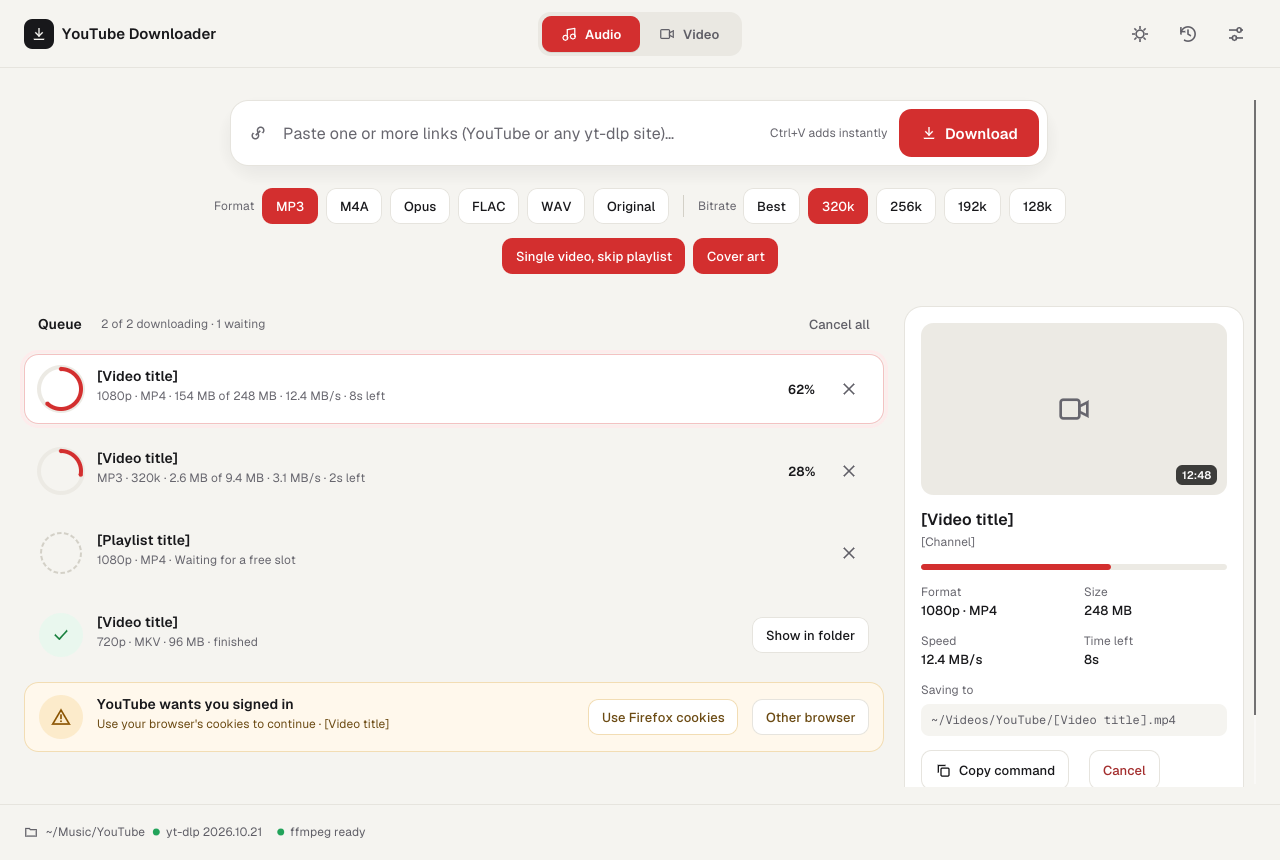
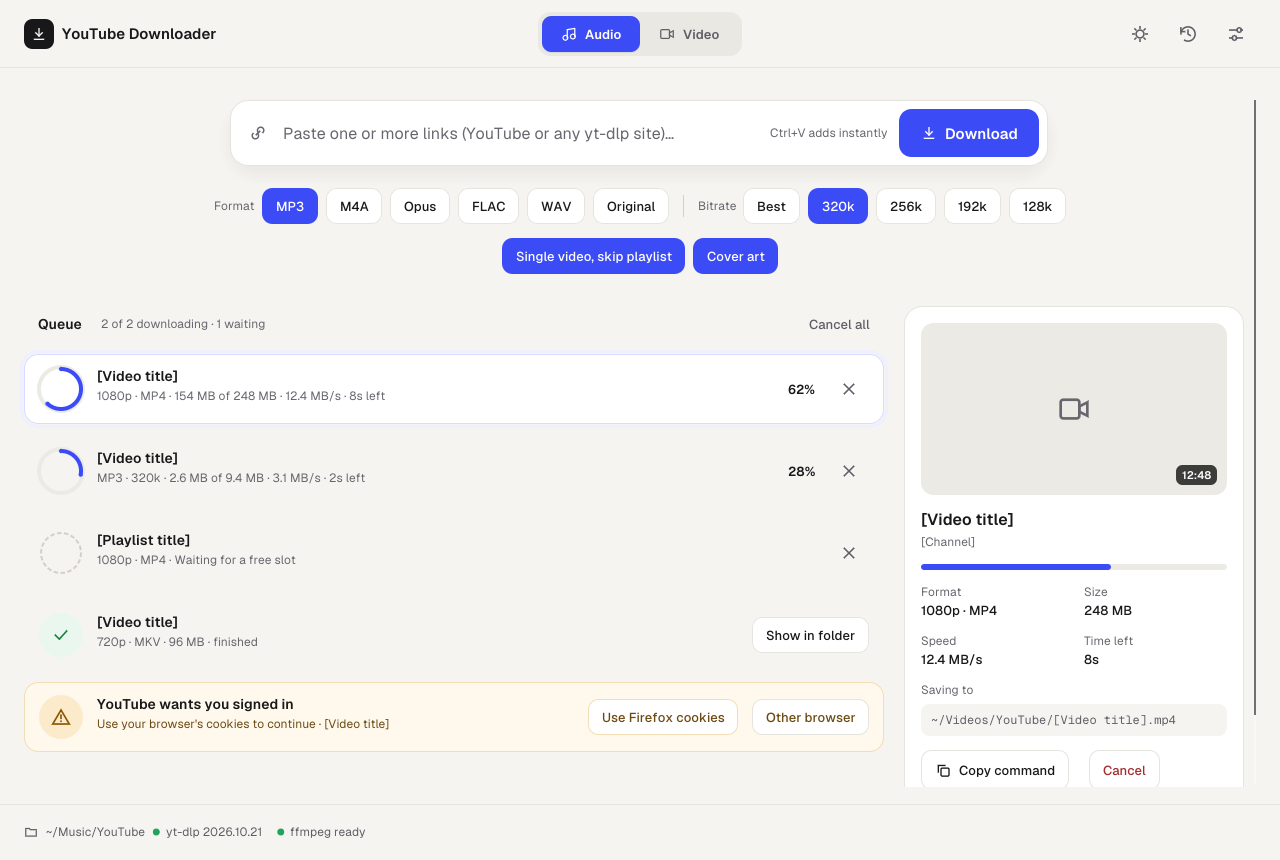
Keep the blue accent on the dark gray theme

diff --git a/crates/app/src/theme.rs b/crates/app/src/theme.rs
@@ -50,12 +50,12 @@ pub const DARK: Palette = Palette {
     text: hex(0xEDEDEF),
     muted: hex(0xA1A1AA),
     faint: hex(0x9C9CA6),
-    accent: hex(0xD32F2F),
-    accent_hover: hex(0xB71C1C),
+    accent: hex(0x3B4BF5),
+    accent_hover: hex(0x4F5DF7),
     on_accent: hex(0xFFFFFF),
     segment_bg: hex(0x31343A),
-    selected_border: hex(0x9A2A2A),
-    selected_glow: Color32::from_rgba_premultiplied(60, 10, 10, 60),
+    selected_border: hex(0x3A44B8),
+    selected_glow: Color32::from_rgba_premultiplied(13, 17, 55, 56),
     track: hex(0x3A3D44),
     success: hex(0x4ADE80),
     success_bg: hex(0x10301C),
@@ -76,12 +76,12 @@ pub const LIGHT: Palette = Palette {
     text: hex(0x18181B),
     muted: hex(0x5F5E66),
     faint: hex(0x67666E),
-    accent: hex(0xD32F2F),
-    accent_hover: hex(0xB71C1C),
+    accent: hex(0x3B4BF5),
+    accent_hover: hex(0x2F3EE0),
     on_accent: hex(0xFFFFFF),
     segment_bg: hex(0xEAE8E2),
-    selected_border: hex(0xF3C2C2),
-    selected_glow: hex(0xFDECEC),
+    selected_border: hex(0xD9DCFF),
+    selected_glow: hex(0xEEF0FF),
     track: hex(0xECEAE4),
     success: hex(0x17803D),
     success_bg: hex(0xE9F7EE),
@@ -224,8 +224,7 @@ fn visuals(p: &Palette, dark: bool) -> Visuals {
     v.extreme_bg_color = p.surface;
     v.faint_bg_color = p.surface_hover;
     v.code_bg_color = p.surface_hover;
-    // Red links on dark gray need a lighter shade to stay readable.
-    v.hyperlink_color = if dark { hex(0xFF8A80) } else { p.accent_hover };
+    v.hyperlink_color = p.accent_hover;
     v.selection.bg_fill = p.accent.gamma_multiply(0.45);
     v.selection.stroke = stroke(1.0, p.text);
     v.override_text_color = Some(p.text);
